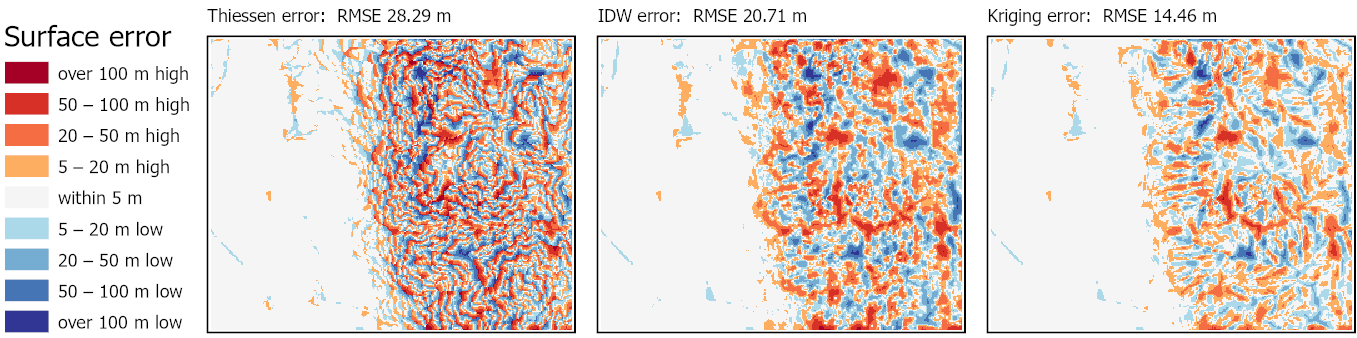
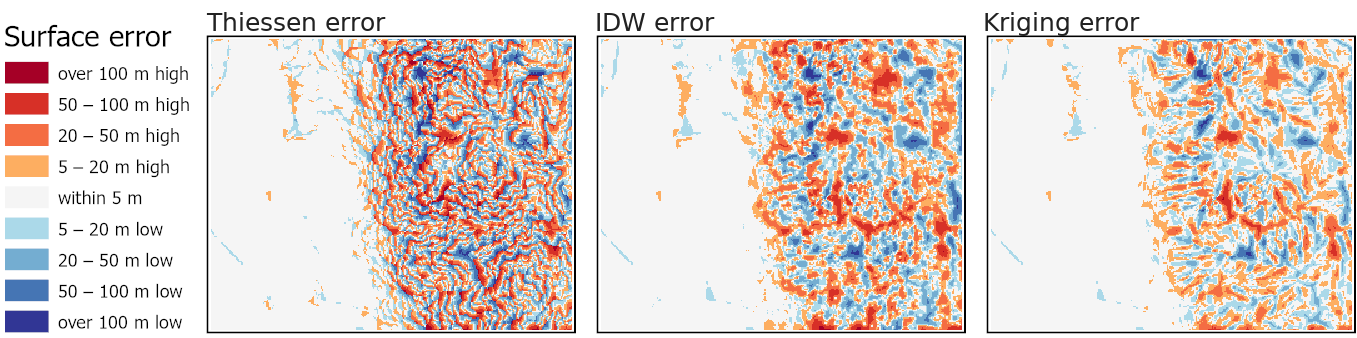
Week 9 Thursday: RMSE slides 15-17 reworked
Slide 15's error maps lose the RMSE values from their titles so the slide
ends on its question; slide 16 is larger and answers it with a one-click
strip of the three RMSE values; slide 17 stacks the four steps down the
left and walks through all four dialogs on three clicks, highlighting the
current step. Calculate Field capture added with callouts (from Lab 8).

Changed region(s): [[0.7119, 0.0296, 0.8976, 0.1183], [0.1548, 0.0296, 0.3405, 0.0888], [0.4333, 0.0296, 0.619, 0.0888]]

diff --git a/tools/week09_dialog_callouts.py b/tools/week09_dialog_callouts.py
@@ -26,7 +26,7 @@ plt.rcParams.update({"font.family": ["Segoe UI", "Arial", "DejaVu Sans"]})
 RED = "#c8102e"
 NOTE_W = 440            # width of the notes column, in screenshot pixels
 # Wide dialogs shrink more on the slide, so their notes are set larger.
-FONT = {"ie-rc-error.png": 26, "ie-rc-square.png": 24, "ie-zonal-table.png": 23}
+FONT = {"ie-rc-error.png": 26, "ie-rc-square.png": 24, "ie-zonal-table.png": 23, "ie-calc-field.png": 22}
 
 # capture, output, side the notes go on, [(row of the field, x the arrow points at, note, optional nudge
 # of the note up or down so neighboring notes do not collide)]
@@ -63,6 +63,12 @@ DIALOGS = [
         (168, 40, "One zone: the\nwhole study area"),
         (332, 40, "The squared\nerror raster"),
         (540, 40, "Mean, not the\ndefault All"),
+    ]),
+    # Step 4 of the RMSE recipe; the capture is Lab 8 Step 7's Calculate Field (lab08-calculate-field.png)
+    ("ie-calc-field.png", "ie-calc-field-callouts.png", "left", [
+        (168, 40, "The table Zonal\nStatistics wrote"),
+        (250, 40, "A new field, RMSE"),
+        (917, 40, "Square root of the\nmean: back in meters"),
     ]),
 ]
 

diff --git a/tools/week09_interpolation_figures.py b/tools/week09_interpolation_figures.py
@@ -24,7 +24,16 @@ GDB = r"C:\Ames\Lab09\ZipCheck\lab08-y-mountain\Lab08.gdb"
 
 # 1. Crop the error row (panels + legend) out of the example map.
 im = Image.open(os.path.join(REPO, "docs", "assignments", "lab-08", "images", "lab08-example-map-baseline.png"))
-im.crop((250, 545, 1607, 883)).save(os.path.join(OUT, "ie-error-row.png"))
+row = im.crop((250, 545, 1607, 883))
+# The example map's panel titles carry the RMSE values; the deck defines RMSE on the next slide, so
+# the slide's copy gets plain titles (October 28, 2026). Rows 0-34 over the panels are the title band.
+from PIL import ImageDraw, ImageFont
+d = ImageDraw.Draw(row)
+d.rectangle((200, 0, 1357, 34), fill="white")
+font = ImageFont.truetype(os.path.join(matplotlib.get_data_path(), "fonts", "ttf", "DejaVuSans.ttf"), 25)
+for x, label in ((207, "Thiessen error"), (595, "IDW error"), (983, "Kriging error")):
+    d.text((x, 7), label, fill="#222222", font=font)
+row.save(os.path.join(OUT, "ie-error-row.png"))
 
 # 2. Checkpoint spread.
 TRUE = arcpy.Raster(os.path.join(GDB, "True_DEM"))

diff --git a/slides/week-09/interpolation-explorer.md b/slides/week-09/interpolation-explorer.md
@@ -449,11 +449,18 @@ section > ul { font-size: 0.8em; }
 
 <style scoped>
 section > h1 { position: absolute; top: 52px; left: 70px; right: 70px; margin: 0; }
-.rm-eq { position: absolute; left: 70px; top: 150px; width: 470px; font-size: 0.8em; }
-.rm-list { position: absolute; left: 70px; top: 285px; width: 470px; font-size: 0.74em; }
+.rm-eq { position: absolute; left: 70px; top: 125px; width: 500px; font-size: 1.05em; }
+.rm-list { position: absolute; left: 70px; top: 290px; width: 500px; font-size: 0.82em; line-height: 1.35; }
 .rm-list ul { margin: 0; }
-.rm-img { position: absolute; right: 40px; top: 150px; width: 700px; }
-.rm-cap { position: absolute; right: 40px; top: 470px; width: 700px; font-size: 0.56em; color: #4a5568; text-align: center; }
+.rm-img { position: absolute; right: 40px; top: 122px; width: 660px; }
+.rm-cap { position: absolute; right: 40px; top: 428px; width: 660px; font-size: 0.56em; color: #4a5568; text-align: center; }
+.rm-ans ul { list-style: none; margin: 0; padding: 0; }
+.rm-ans li { position: absolute; left: 70px; right: 70px; top: 530px; margin: 0; display: flex; align-items: stretch; gap: 16px; }
+.rm-ans .lead { flex: 0 0 300px; display: flex; align-items: center; font-size: 0.66em; line-height: 1.25; color: #002e5d; font-weight: 700; }
+.rm-ans .r { flex: 1; border-radius: 12px; padding: 0.3em 0.5em; text-align: center; color: #fff; font-size: 0.66em; line-height: 1.2; }
+.rm-ans .r b { display: block; font-size: 1.6em; }
+.rm-ans .t { background: #e8792b; } .rm-ans .i { background: #0062b8; } .rm-ans .k { background: #2e8b57; }
+li[data-bespoke-marp-fragment="active"] .pop { display: inline-block; animation: tryit-pop 0.45s ease-out both; }
 </style>
 
 <div class="rm-eq">
@@ -476,7 +483,13 @@ $$
 
 <span class="rm-cap">Every <strong>gap</strong> between the black truth and a colored rebuild is one cell's error; RMSE is the typical size of those gaps, in meters</span>
 
-<!-- z is the truth, z-hat the surface, n the number of cells. Squaring does two things: it stops positive and negative errors canceling, and it weights big errors heavily, so a surface with a few 100 m misses scores worse than one with many 5 m misses. The profile is one row of cells across the Lab 8 study area (the same one as on Today's Goals): every vertical gap between the black truth and one of the colored rebuilds is one cell's error, and RMSE rolls all 67,337 of those gaps into one number per method. Common slip: the root of the mean, not the mean of the roots, and not the root of the sum. The "What RMSE Hides" slide that followed was cut October 28, 2026 to keep RMSE something students want to use; its profile figure moved here. -->
+<div class="rm-ans">
+
+* <span class="lead">The three error maps from the last slide, each as one number:</span><span class="r t pop">Thiessen<b>28.29 m</b></span><span class="r i pop">IDW, power 2<b>20.71 m</b></span><span class="r k pop">Kriging<b>14.46 m</b></span>
+
+</div>
+
+<!-- One click: the answer to the last slide's question, the three error maps as one number each (the Lab 8 example baseline, 2,500 points, default parameters; the lab's check values). Kriging wins here, and the next slide shows how the number is computed in ArcGIS Pro. z is the truth, z-hat the surface, n the number of cells. Squaring does two things: it stops positive and negative errors canceling, and it weights big errors heavily, so a surface with a few 100 m misses scores worse than one with many 5 m misses. The profile is one row of cells across the Lab 8 study area (the same one as on Today's Goals): every vertical gap between the black truth and one of the colored rebuilds is one cell's error, and RMSE rolls all 67,337 of those gaps into one number per method. Common slip: the root of the mean, not the mean of the roots, and not the root of the sum. The "What RMSE Hides" slide that followed was cut October 28, 2026 to keep RMSE something students want to use; its profile figure moved here. -->
 
 ---
 
@@ -484,40 +497,54 @@ $$
 
 <style scoped>
 section > h1 { position: absolute; top: 52px; left: 70px; right: 70px; margin: 0; }
-.fl-lead { position: absolute; left: 70px; top: 122px; width: 1140px; font-size: 0.74em; }
-.flow { position: absolute; left: 70px; right: 70px; top: 185px; display: flex; align-items: stretch; gap: 0; }
-.flow .box { flex: 1; background: #eef4fb; border: 2px solid #0062b8; border-radius: 12px; padding: 0.45em 0.55em; font-size: 0.56em; line-height: 1.3; text-align: center; }
-.flow .box b { display: block; font-size: 1.25em; color: #002e5d; margin-bottom: 0.25em; }
-.flow .box .tool { display: block; color: #0062b8; font-weight: 700; }
+.fl-lead { position: absolute; left: 70px; top: 118px; width: 1140px; font-size: 0.7em; }
+.flow { position: absolute; left: 70px; top: 170px; width: 350px; display: flex; flex-direction: column; gap: 8px; }
+.flow .box { background: #eef4fb; border: 2px solid #0062b8; border-radius: 12px; padding: 0.3em 0.55em; font-size: 0.56em; line-height: 1.3; }
+.flow .box b { display: block; font-size: 1.25em; color: #002e5d; }
+.flow .box .tool { color: #0062b8; font-weight: 700; }
 .flow .box code { font-size: 0.92em; }
-.flow .arrow { flex: 0 0 46px; display: flex; align-items: center; justify-content: center; font-size: 1.5em; color: #e8792b; font-weight: 800; }
-.fl-list { position: absolute; left: 70px; top: 380px; width: 640px; font-size: 0.66em; }
-.fl-img { position: absolute; right: 70px; top: 325px; height: 345px; }
+.fl-list { position: absolute; left: 70px; top: 505px; width: 350px; font-size: 0.56em; line-height: 1.3; }
+.fl-list ul { margin: 0; padding-left: 1.1em; }
+.caps-base { position: absolute; left: 450px; top: 170px; width: 760px; height: 490px; object-fit: contain; object-position: left top; }
+.caps ul { list-style: none; margin: 0; padding: 0; }
+.caps li { position: absolute; left: 450px; top: 170px; width: 760px; height: 490px; margin: 0; background: #fff; }
+.caps li img { width: 100%; height: 100%; object-fit: contain; object-position: left top; }
+.caps li[data-bespoke-marp-fragment="inactive"] { display: none; }
+.flow .box.on { background: #fff3e8; border-color: #e8792b; }
+section:not(:has(.caps li[data-bespoke-marp-fragment="active"])) .flow .box:nth-child(1) { background: #fff3e8; border-color: #e8792b; }
+section:has(.caps li:nth-child(1)[data-bespoke-marp-fragment="active"]):not(:has(.caps li:nth-child(2)[data-bespoke-marp-fragment="active"])) .flow .box:nth-child(2) { background: #fff3e8; border-color: #e8792b; }
+section:has(.caps li:nth-child(2)[data-bespoke-marp-fragment="active"]):not(:has(.caps li:nth-child(3)[data-bespoke-marp-fragment="active"])) .flow .box:nth-child(3) { background: #fff3e8; border-color: #e8792b; }
+section:has(.caps li:nth-child(3)[data-bespoke-marp-fragment="active"]) .flow .box:nth-child(4) { background: #fff3e8; border-color: #e8792b; }
 </style>
 
-<div class="fl-lead">ArcGIS Pro has <strong>no single RMSE tool</strong>. Chain four steps, each one a tool you already know:</div>
+<div class="fl-lead">ArcGIS Pro has <strong>no single RMSE tool</strong>. Chain four steps, each one a tool you already know (click through the dialogs):</div>
 
 <div class="flow">
-<div class="box"><b>1 · Error</b><span class="tool">Raster Calculator</span><code>True_DEM − Surface</code></div>
-<div class="arrow">➜</div>
-<div class="box"><b>2 · Square</b><span class="tool">Raster Calculator</span><code>Square(Error)</code></div>
-<div class="arrow">➜</div>
-<div class="box"><b>3 · Mean</b><span class="tool">Zonal Statistics as Table</span>over the study area, statistic <strong>Mean</strong></div>
-<div class="arrow">➜</div>
-<div class="box"><b>4 · Square root</b><span class="tool">Calculate Field</span><code>math.sqrt(!MEAN!)</code></div>
+<div class="box"><b>1 · Error</b><span class="tool">Raster Calculator</span> · <code>True_DEM − Surface</code></div>
+<div class="box"><b>2 · Square</b><span class="tool">Raster Calculator</span> · <code>Square(Error)</code></div>
+<div class="box"><b>3 · Mean</b><span class="tool">Zonal Statistics as Table</span> · one zone, statistic <strong>Mean</strong></div>
+<div class="box"><b>4 · Square root</b><span class="tool">Calculate Field</span> · <code>math.sqrt(!MEAN!)</code></div>
 </div>
 
 <div class="fl-list">
 
-- The same order as the formula, read **inside out**
+- The formula read **inside out**
 - Lab 8's model chains all four for **each method**
-- **COUNT** in the table is the number of cells averaged: **67,337**
+- **COUNT** in the table is the cells averaged: **67,337**
 
 </div>
 
-<img class="fl-img" src="images/ie-zonal-callouts.png" alt="The Zonal Statistics as Table dialog with callouts: the study area as the one zone, the squared error raster, and statistic Mean">
+<img class="caps-base" src="images/ie-rc-error-callouts.png" alt="Step 1: the Raster Calculator dialog with callouts, truth minus surface, one error raster per method">
 
-<!-- There is no RMSE tool in ArcGIS Pro, so the four boxes are the whole recipe, and each one is a tool students have already run: Raster Calculator twice (Week 3's map algebra), Zonal Statistics as Table, and Calculate Field. Read the formula on the last slide from the inside out and it is the same four steps: the difference, the square, the mean, the root. The capture is step 3 in Lab 8 Step 7. The table is Lab 8 Step 7's output for one method: COUNT 67,337 cells and AREA 60,603,300 square meters, both on the lab page as check values. If COUNT comes out smaller, the surfaces did not cover the whole study area (the Extent environment is the usual cause), and the RMSE is quietly computed on fewer cells. Zonal Statistics as Table opens with the statistic set to All; Mean is the one the RMSE needs. The step-2 capture (ie-rc-square-callouts.png) was on the RMSE slide until October 28, 2026. -->
+<div class="caps">
+
+* <img src="images/ie-rc-square-callouts.png" alt="Step 2: the Raster Calculator dialog squaring the error raster">
+* <img src="images/ie-zonal-callouts.png" alt="Step 3: the Zonal Statistics as Table dialog with callouts: the study area as the one zone, the squared error raster, and statistic Mean">
+* <img src="images/ie-calc-field-callouts.png" alt="Step 4: the Calculate Field dialog writing RMSE as the square root of MEAN">
+
+</div>
+
+<!-- Three clicks: the dialog for step 1 is up when the slide opens, and each click replaces it with the next step's dialog and moves the highlight down the flow (all four are Lab 8 Step 6 and 7 captures). There is no RMSE tool in ArcGIS Pro, so the four boxes are the whole recipe, and each one is a tool students have already run: Raster Calculator twice (Week 3's map algebra), Zonal Statistics as Table, and Calculate Field. Read the formula on the last slide from the inside out and it is the same four steps: the difference, the square, the mean, the root. The table is Lab 8 Step 7's output for one method: COUNT 67,337 cells and AREA 60,603,300 square meters, both on the lab page as check values. If COUNT comes out smaller, the surfaces did not cover the whole study area (the Extent environment is the usual cause), and the RMSE is quietly computed on fewer cells. Zonal Statistics as Table opens with the statistic set to All; Mean is the one the RMSE needs. The step-2 capture (ie-rc-square-callouts.png) was on the RMSE slide until October 28, 2026. -->
 
 ---
 
